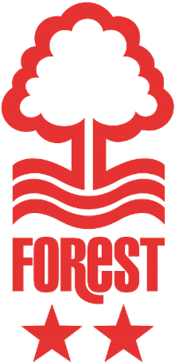
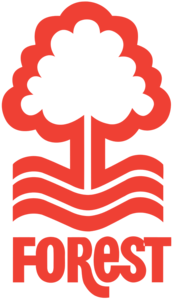
Sprite manager.

diff --git a/src/js/index.js b/src/js/index.js
@@ -8,6 +8,7 @@ import * as THREE from "three";
 import { BaseApp } from "./baseApp";
 import { SceneConfig } from "./sceneConfig";
 import Data from "../data/forest.json";
+import { SpriteManager } from "./spriteManager";
 
 let ControlKit = require("controlkit");
 
@@ -37,47 +38,53 @@ class Framework extends BaseApp {
         this.root = new THREE.Object3D();
         this.addToScene(this.root);
 
-        //Add model
-        let loader = new THREE.JSONLoader();
-        loader.load("../models/forestLogo.json", (geometry, materials) => {
+        //Add sprite
+        let textureLoader = new THREE.TextureLoader();
+        let logoTexture = textureLoader.load("../images/forest.png");
+        let spriteManager = new SpriteManager();
 
-            let teamGeom = new THREE.CylinderBufferGeometry(SceneConfig.radius, SceneConfig.radius, SceneConfig.winHeight, SceneConfig.segments);
-            let teamMats = [new THREE.MeshLambertMaterial({color: SceneConfig.loseColour}),
-                new THREE.MeshLambertMaterial({color: SceneConfig.drawColour}),
-                new THREE.MeshLambertMaterial({color: SceneConfig.winColour})];
-            let teamMesh, logoMesh;
-            let teamPosition = SceneConfig.teamStart;
-            let team, result, teamColumns=[], teamHeights=[];
-            let numTeams = Data.length;
-            for(let i=0; i<numTeams; ++i) {
-                team = Data[i];
-                result = this.getResult(team);
-                if(result === undefined) {
-                    console.log("Couldn't get result!");
-                    continue;
-                }
-                teamMesh = new THREE.Mesh(teamGeom, teamMats[result]);
-                teamColumns.push(teamMesh);
-                teamMesh.position.set(teamPosition.x, -SceneConfig.winHeight/2, teamPosition.z + (SceneConfig.teamInc * i));
-                teamHeights.push(SceneConfig.resultOffset[result]);
-                this.root.add(teamMesh);
+        let spriteAttributes = {
+            map: logoTexture,
+            name: "Forest",
+            spriteScale: new THREE.Vector3(10, 10, 1)
+        };
 
-                logoMesh = new THREE.Mesh(geometry, materials);
-                logoMesh.scale.set(SceneConfig.LOGO_SCALE, SceneConfig.LOGO_SCALE, SceneConfig.LOGO_SCALE);
-                logoMesh.rotation.x = Math.PI/2;
-                logoMesh.position.copy(teamMesh.position);
-                logoMesh.position.y = teamHeights[i] + SceneConfig.LOGO_SCALE;
-                this.root.add(logoMesh);
-            }
+        let logo = spriteManager.create(spriteAttributes);
+        this.root.add(logo);
 
-            this.numTeams = numTeams;
-            this.teamColumns = teamColumns;
-            this.teamHeights = teamHeights;
-            this.animating = true;
-        });
+        this.createResultsGeometry();
 
         //Add ground plane
         this.addGround();
+    }
+
+    createResultsGeometry() {
+        let teamGeom = new THREE.CylinderBufferGeometry(SceneConfig.radius, SceneConfig.radius, SceneConfig.winHeight, SceneConfig.segments);
+        let teamMats = [new THREE.MeshLambertMaterial({color: SceneConfig.loseColour}),
+            new THREE.MeshLambertMaterial({color: SceneConfig.drawColour}),
+            new THREE.MeshLambertMaterial({color: SceneConfig.winColour})];
+        let teamMesh;
+        let teamPosition = SceneConfig.teamStart;
+        let team, result, teamColumns=[], teamHeights=[];
+        let numTeams = Data.length;
+        for(let i=0; i<numTeams; ++i) {
+            team = Data[i];
+            result = this.getResult(team);
+            if(result === undefined) {
+                console.log("Couldn't get result!");
+                continue;
+            }
+            teamMesh = new THREE.Mesh(teamGeom, teamMats[result]);
+            teamColumns.push(teamMesh);
+            teamMesh.position.set(teamPosition.x, -SceneConfig.winHeight/2, teamPosition.z + (SceneConfig.teamInc * i));
+            teamHeights.push(SceneConfig.resultOffset[result]);
+            this.root.add(teamMesh);
+        }
+
+        this.numTeams = numTeams;
+        this.teamColumns = teamColumns;
+        this.teamHeights = teamHeights;
+        this.animating = true;
     }
 
     getResult(team) {
@@ -140,8 +147,7 @@ class Framework extends BaseApp {
 
     addGround() {
         //Ground plane
-        const GROUND_WIDTH = 1000, GROUND_HEIGHT = 640, SEGMENTS = 16;
-        let groundGeom = new THREE.PlaneBufferGeometry(GROUND_WIDTH, GROUND_HEIGHT, SEGMENTS, SEGMENTS);
+        let groundGeom = new THREE.PlaneBufferGeometry(SceneConfig.GroundWidth, SceneConfig.GroundHeight, SceneConfig.GroundSegments, SceneConfig.GroundSegments);
         let groundMat = new THREE.MeshLambertMaterial({color: 0xcdcdcd});
         let ground = new THREE.Mesh(groundGeom, groundMat);
         ground.name = "Ground";

diff --git a/src/js/spriteManager.js b/src/js/spriteManager.js
@@ -1,0 +1,30 @@
+//Class for creating and managing sprites
+
+import { SpriteConfig } from "./spriteConfig";
+import * as THREE from "three";
+
+export class SpriteManager {
+    constructor() {
+        this.sprites = [];
+    }
+
+    create(spriteAttributes) {
+        let spriteMap = new THREE.SpriteMaterial( {map: spriteAttributes.map});
+        let logoSprite = new THREE.Sprite(spriteMap);
+        logoSprite.name = spriteAttributes.name;
+        logoSprite.scale.copy(spriteAttributes.spriteScale);
+        this.sprites.push(logoSprite);
+
+        return logoSprite;
+    }
+
+    getSpriteByName(name) {
+        for(let i=0, numSprites=this.sprites.length; i<numSprites; ++i) {
+            if(this.sprites[i].name === name) {
+                return this.sprites[i];
+            }
+        }
+
+        return undefined;
+    }
+}

diff --git a/src/js/sceneConfig.js b/src/js/sceneConfig.js
@@ -22,6 +22,9 @@ const SceneConfig = {
     winHeight: 45,
     drawHeight: 30,
     loseHeight: 15,
+    GroundWidth: 2000,
+    GroundHeight: 1000,
+    GroundSegments: 16,
     winColour: 0x00ff00,
     drawColour: 0xffbf00,
     loseColour: 0xff0000,

diff --git a/src/js/spriteConfig.js b/src/js/spriteConfig.js
@@ -1,0 +1,7 @@
+//Default attributes for sprites
+
+const SpriteConfig = {
+    DefaultScale: 10
+};
+
+export { SpriteConfig };
